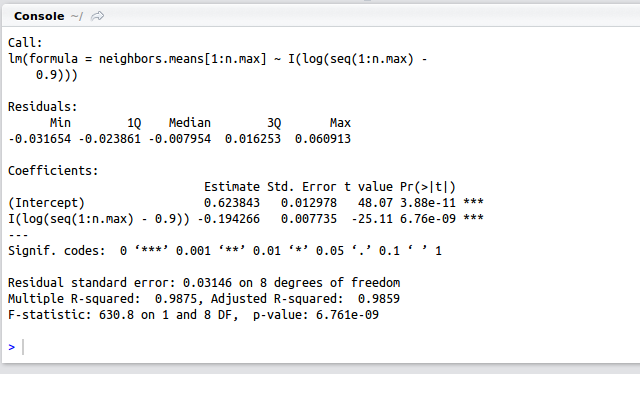
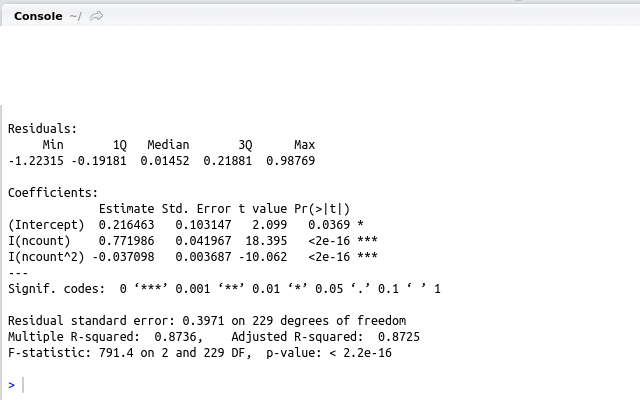
new model, new comments

diff --git a/preface.tex b/preface.tex
@@ -6,30 +6,30 @@ Although the Moore's law\footnote{https://en.wikipedia.org/wiki/Moore's\_law} st
 
 It's natural to ask, how we can speed up such computations. Obvious possibility is to get better hardware, however this is limited by technical progress and can be quite expensive. Widely used approach is to parallelize the computation, that is different parts of the job are run concurrently (in parallel) which results in reduction of the processing time. Generally tasks can be parallelized on different levels. We will talk about parallelism on the level of whole computers, i.e. each computing node is represented by a standalone machine. These nodes are independent and their physical distance can be arbitrary long. The only condition which has to be fulfilled is that the nodes are connected together by the network so they can communicate and exchange data. This approach can be used with big tasks only, because the network communication is relatively very slow and for many tasks it would be a bottleneck. There are also different ways how the general term parallelism can be understood. We will consider so called data parallelism. That is, each computing node runs the same process, only the data differs. This is the main difference from the task parallelism concept in which different nodes can run completely different tasks.
 
-Obviously, not all tasks can be parallelized easily or even are not possible to parallelize at all. On the other hand, there exists also jobs that can be split into smaller parts, each of which can be processed independently and the results then joined together in the end. Concurrent processing of such jobs is quite straightforward and allows use of the data parallelism. These jobs are suitable for our framework.
+Obviously, not all tasks can be parallelized easily or even are not possible to parallelize at all. On the other hand, there exists also jobs that can be split into smaller parts, each of which can be processed independently and the results then can be joined together in the end. Concurrent processing of such jobs is quite straightforward and allows to use of the data parallelism. These jobs are suitable for our framework.
 
 \subsection*{Goal of the thesis} % (fold)
 The main goal is to implement robust framework which is able to split given job, distribute work among participating nodes, which process the assigned parts in parallel, and eventually collect the results and join them together. The domain of suitable jobs is restricted to ones that are described in the preceding paragraph.
 
-The concept of parallelization has been known for many years and many different approaches have been implemented. Some of them are discussed in \hyperref[existing-solutions]{chapter 1}. Nevertheless, the great majority of them uses some kind of hierarchy or at least some control node exists which has different functionality than the others. Main motivation of our work was to provide solution, in which all the nodes are equivalent, each can initiate the process or serve as a computing node. Even in our framework there exists always one node which controls the process while the other ones do the work. But the point is, that every single node can become the initiator (master) or serve as a slave or even both at the same time. Our framework was implemented with the application to the video encoding in mind. However its essence is generic, so it could be easily modified to be used with an arbitrary job which fulfills the above mentioned conditions.
+The concept of parallelization has been known for many years and many different approaches have been implemented. Some of them are discussed in \hyperref[existing-solutions]{chapter 1}. Nevertheless, the great majority of them uses some kind of hierarchy or at least some control node exists which has different functionality than the others. Main motivation of our work was to provide solution, in which all the nodes are equivalent, each can initiate the process or serve as a computing node. Even in our framework there exists always one node which controls the process while the other ones do the work. But the point is, that every single node can become the initiator (master) or serve as a slave or even both at the same time. Our framework was implemented with the application for the video encoding in mind. However its essence is generic, so it could be easily modified to be used with an arbitrary job which fulfills the above mentioned conditions.
 
 The purpose is to implement framework which conforms to the peer to peer paradigm as much as possible. We also want to keep the logic in the node which have demands to be processed in order to ensure better control and more deterministic behavior. Another important goal is to minimize occurrences of errors in the system and good ability to recover from them. The system is also intended to use personal computers as computing nodes, so the program typically runs alongside other applications.
 
 
 % section goal_of_the_thesis (end)
 \subsection*{Application to the video encoding}
-Video files are more or less sequences of images, so called frames. When the file is being played, the images are showed one after the other. They change many times per second so it makes the illusion of smooth video. There are different ways to code the video into the digital form so the need arises to convert the files from one format to other. The program which codes the analog video data to digital or decodes it the other way around is called codec. Some of the well known codecs are for example \textit{H.264}\footnote{https://en.wikipedia.org/wiki/H.264/MPEG-4\_AVC} or \textit{MPEG-2}\footnote{https://en.wikipedia.org/wiki/MPEG-2}. In order to convert the file, each frame has to be re-encoded, which takes quite a big amount of time. This makes the video files ideal for use of our framework.
+Video files are more or less sequences of images, so called frames. When the file is being played, the images are showed one by one. They change many times per second so it makes the illusion of smooth video. There are different ways to code the video into the digital form so the need arises to convert the files from one format to another. The program which codes the analog video data to digital or decodes it the other way around is called codec. Some of the well known codecs are for example \textit{H.264}\footnote{https://en.wikipedia.org/wiki/H.264/MPEG-4\_AVC} or \textit{MPEG-2}\footnote{https://en.wikipedia.org/wiki/MPEG-2}. In order to convert the file, each frame has to be re-encoded, which takes quite a large amount of time. This makes the video files ideal for use of our framework.
 
-Before we use it, some more details have to be revealed. Because we usually want to not only watch the video but also listen to some sound, the videos are usually accompanied by one or more audio files and they are packed together in some container. When we want to convert the video, the container has to be opened, the video extracted, processed and stored again. The audio files are not in our concern and we will simply copy them. Common container formats are \textit{avi}\footnote{https://en.wikipedia.org/wiki/Audio\_Video\_Interleave} or \textit{mkv}\footnote{https://en.wikipedia.org/wiki/Matroska}.
+Before we use it, some more details have to be revealed. Because we usually want not only to watch the video but also listen to some sound, the videos are usually accompanied by one or more audio files and they are packed together in some container. When we want to convert the video, the container has to be opened, the video extracted, processed and stored again. The audio files are not in our concern and we will simply copy them. Common container formats are \textit{avi}\footnote{https://en.wikipedia.org/wiki/Audio\_Video\_Interleave} or \textit{mkv}\footnote{https://en.wikipedia.org/wiki/Matroska}.
 
-There is another important thing. In order to reduce file size and decrease the requirements of rendering the video, the file actually contains only few frames which carry the whole information. These are usually referred to as the key frames. The rest contains only information how the image differs from the previous one. This approach greatly reduces the file size while preserves good ability to recover from errors, e.g. when some part of the file is damaged. Consequence of this fact is, that we cannot split the video file wherever we want, because if the chunk started with some non-key frame, the conversion would not be done properly.
+There is another important thing. In order to reduce file size and decrease the requirements of rendering the video, the file actually contains only few frames which carry the whole information. These are usually referred to as the key frames. The rest of them contains only information how the image differs from the previous one. This approach greatly reduces the file size while preserves good ability to recover from errors, e.g. when some part of the file is damaged. Consequence of this fact is, that we cannot split the video file wherever we want, because if the chunk started with some non-key frame, the conversion would not be done properly.
 
-The problematic of video encoding is quite complex and used algorithms are very sophisticated and advanced, so we did not reinvent the wheel and used third party software for the video encoding, namely the ffmpeg and ffprobe from the FFmpeg\footnote{https://www.ffmpeg.org/} project. For the sake of simplicity, the program outputs always video files packed in the Matroska container. The choice of the codec is arbitrary, however it is restricted by the list of options. All of this software is free and published under the GNU General Public License\footnote{https://en.wikipedia.org/wiki/GNU\_General\_Public\_License} or GNU Lesser General Public License\footnote{https://en.wikipedia.org/wiki/GNU\_Lesser\_General\_Public\_License} in case of FFmpeg.
+Issues connected with video encoding are quite complex and used algorithms are very sophisticated and advanced, so we did not reinvent the wheel and used third party software for the video encoding, namely the ffmpeg and ffprobe from the FFmpeg\footnote{https://www.ffmpeg.org/} project. For the sake of simplicity, the program outputs always video files packed in the Matroska container. The choice of the codec is arbitrary, however it is restricted by the list of options. All of this software is free and published under the GNU General Public License\footnote{https://en.wikipedia.org/wiki/GNU\_General\_Public\_License} or GNU Lesser General Public License\footnote{https://en.wikipedia.org/wiki/GNU\_Lesser\_General\_Public\_License} in case of FFmpeg.
 
 \subsection*{Terminology}
 To prevent misunderstandings there is a short list of frequently used terms:
 \begin{itemize}
-\item \textit{master}(or \textit{initiating node, initiator}) is a node which has work to do, i.e. file to encode. It initiates and controls the process.
+\item \textit{master}(or \textit{initiating node, initiator}) is a node which has job to be done, i.e. has file to be encoded. It initiates and controls the process.
 \item \textit{task}(\textit{job}) refers to work that should be done, specified by the initiator.
 \item \textit{chunk} denotes one part of the split file, which is supposed to be encoded independently.
 \item \textit{(computing) node} is one particular entity which communicates with the master and encodes chunks for it. Theoretically, there can be more such entities on one physical computer, because each node is determined by its communicating port and address.

diff --git a/epilog.tex b/epilog.tex
@@ -2,7 +2,7 @@
 \addcontentsline{toc}{chapter}{Conclusion}
 Based on the experiments it can be said, that the framework works fine and it can be successfully used to speed up computation in the local network. Although the achieved speed up does not grow linearly with the increasing number of nodes, it can be quite significant. It was not tested in WAN environments, however, according to the results, the transfers of the data takes indispensable portion of the whole processing time, so the improvement depends on the network throughput. 
 
-As is being discussed in \hyperref[Problems-alternatives-and-possible-improvements]{chapter 4}, the framework could be further improved. To achieve more effective distribution of the work, more sophisticated scheduling could be employed. Also it was shown, that some redundancy for prevention of re-computing whole node could be useful. Because of the speed of the network the data transfers generally seems to be a bottleneck, so good scheduling algorithm appears to be very important, together with optimal choice of the chunk size. This leads us to a conclusion, that in reliable network environments is probably better idea to centralize logic to special node in order to achieve better performance and accept potential malfunctions caused by the control node failure.
+As is being discussed in \hyperref[Problems-alternatives-and-possible-improvements]{chapter 4}, the framework could be further improved. To achieve more effective distribution of the work, more sophisticated scheduling could be employed that would take into account network topology or each node's performance and possibly create chunks of different sizes etc. It would require some better network knowledge. Also it was shown, that some redundancy for prevention of re-computing all chunks from one particular node could be useful. However, this would cause worse performance and also the advantages are quite unsure. Because of the speed of the network the data transfers generally seems to be a bottleneck, so good scheduling algorithm appears to be very important, together with optimal choice of the chunk size. This leads us to a conclusion, that in reliable network environments is probably better idea to centralize logic to special node in order to achieve better performance and accept potential malfunctions caused by the control node failure. This control node would schedule the process for each client that would ask. Another advantage of this approach is the fact, that this node could use a knowledge of the current network state, that is, which nodes are employed and how,
 
 \chapter*{Appendix A - Installation and use}
 \section{Download} 

diff --git a/chapters/03_chapter.md b/chapters/03_chapter.md
@@ -1,5 +1,5 @@
 # Experiments
-The purpose of the application is to speed up the computation process, thus it should be verified, whether the improvement makes sense or do not. The improvement should correspond to the number of nodes involved in the computation. What we wish is, that the dependence is of some linear form, that is, the computation gets faster with every additional node and it improves by the same steps. In this hypothetical ideal case two nodes means two times faster computation and one hundred nodes means one hundred times faster achievement of the result. However, this is impossible for several reasons. At first, we must consider time that is taken by the division process. More time is needed for transfers and final join operation. Another problem raises because of the fact that the transfers are quite demanding themselves so when more transfers are ongoing at a particular moment, the initiator is more utilized and the process could be slowed down due to this fact. This also implies that the improvement does not raise constantly when adding more nodes. Finally, we must consider that in the real situation delays can appear due to technical reasons, network congestion or node failures.
+The purpose of the application is to speed up the computation process, thus it should be verified, whether the improvement makes sense or do not. The improvement should correspond to the number of nodes involved in the computation. What we wish is, that the dependence is of some linear form, that is, the computation gets faster with every additional node and it improves by the same steps. In this hypothetical ideal case two nodes means two times faster computation and one hundred nodes means one hundred times faster achievement of the result. However, this is impossible for several reasons. At first, we must consider time that is taken by the division process. More time is needed for transfers and final join operation. Another problem raises because of the fact that the transfers are quite demanding themselves so when more transfers are ongoing at a particular moment, the initiator is more utilized and the process could be slowed down due to this fact. This also implies that the improvement does not raise linearly when adding more nodes. Finally, we must consider that in the real situation delays can appear due to technical reasons, network congestion or node failures.
 
 ## Approach to testing
 If we want to obtain reasonable data, the measurements must be repeated several times to prevent deviations. Also we want to keep the measurements independent so its statistical processing is easier. Our approach to running the tests and gathering results is described in this chapter. Our main goal is to measure the improvement, but we would also like to measure the impact the particular setting has on the result.
@@ -34,47 +34,38 @@ The test data were collected by running the test ten times for the given count o
 The desired values have been gathered in two ways. Some of them, for example average transfer and encoding times, are measured directly in the program and then outputted in special file. The script just reads it from this file. The rest of the values is obtained in the script.
 
 ## Results
-### Linear Model
-Measurings showed, that the dependence between the number of involved nodes and the improvement is approximately logarithmic. Work with the data and the model was performed in the R Studio program. To evaluate the data, simple linear regression model was used. Specifically, subsequent formula was used:
-\begin{center}
-$\frac{distributed\_time}{single\_node\_time} = \beta_0 + \beta_1 \times log(neighbor\_count - 0.9)$
-\end{center}
-The absolute value has been added since the model fits better this way - in the case when one neighbor is used, the distributed computation is actually slower. The analysis of the model showed, that it makes sense to use this model. The assumptions such as homoscedasticity (constant variance) and independence of errors were verified using plots and results given by the R Studio\footnote{https://www.rstudio.com/}.
-Some of the mentioned outputs are given in the figures 3.1 and 3.2. We can see, that according to the p-values corresponding to coefficients, both of them are significant for the model. Residual standard error shows, that the variance is not too big. In the plots we can see that residuals has approximately constant variance. However, the second plot suggests, that they may not be distributed normally.
-\begin{figure}[h]
-\begin{center}
-\includegraphics[scale=0.65]{./img/model.png}
-\caption{Summary of the model}
-\end{center}
-\end{figure}
-\begin{figure}[h]
-\begin{center}
-\includegraphics[scale=0.85]{./img/modelplot.pdf}
-\caption{Graphical representation of the model data}
-\end{center}
-\end{figure}
 
- In the figures 3.3 - 3.5 are showed the achieved results. The blue dashed line represents the estimate which is based on the model. The obtained data are visualized as black crosses, red squares show respective mean values.
+### Interpreting the results
+ In the Figure 3.1 are showed the achieved results, interpreted with respect to time needed by the single node. The x-axis shows count of nodes, the y-axis the portion of time needed by the distributed process. The blue dashed line represents the estimate which is based on the model which used hyperbolic function to predict the data. The obtained data are visualized as black crosses, red squares show respective mean values.
 \begin{figure}[h]
 \begin{center}
-\includegraphics[scale=0.90]{./img/Rplot.pdf}
+\includegraphics[scale=0.90]{./img/improve_root.png}
 \caption{Achieved improvement - all measurements}
 \end{center}
 \end{figure}
+The figures 3.2 - 3.4 shows the achieved speedup. The y-axis shows the obtained speedup. The used model is further described in the next section. The data are represented by gray crosses, the estimation is visualized by the blue dashed line. The red line shows the linear function, which would be the ideal case. This linear function is of the form \\
+$y = q*x$
+where coefficient \textit{q} represents the influence of the time consumed by the data transfers. The Figure 3.4 shows, that for this chunk size the time spent with the distribution causes latencies when more nodes are employed. Each node waits for the chunk for too long since too many transfers are processed in parallel.
 \begin{figure}[h]
 \begin{center}
-\includegraphics[scale=0.90]{./img/Rplot10k.pdf}
-\caption{Achieved improvement - 10 MB chunks}
+\includegraphics[scale=0.90]{./img/Rplot_all.png}
+\caption{Achieved speedup - all measurements}
 \end{center}
 \end{figure}
 \begin{figure}[h]
 \begin{center}
-\includegraphics[scale=0.90]{./img/Rplot.pdf}
-\caption{Achieved improvement - 40 MB chunks}
+\includegraphics[scale=0.90]{./img/Rplot10k.png}
+\caption{Achieved speedup - 10 MB chunks}
+\end{center}
+\end{figure}
+\begin{figure}[h]
+\begin{center}
+\includegraphics[scale=0.90]{./img/Rplot40k.png}
+\caption{Achieved speedup - 40 MB chunks}
 \end{center}
 \end{figure}
 
-In the figures 3.6, 3.7 and 3.8 are displayed ratios between particular chunk operations. The first two shows average values per one chunk (so the join and split times are just for an illustration), sorted in ascending order by the chunk size, the latter shows the summations. We can see that portion of time spent with network transfers is relatively small in our case. These diagrams were generated using the LibreOffice package\footnote{http://www.libreoffice.org/}
+In the figures 3.5, 3.6 and 3.7 are displayed ratios between particular chunk operations. The first two shows average values per one chunk (so the join and split times are just for an illustration), sorted in ascending order by the chunk size, the latter shows the summations, i.e. overall times spent with the particular operations. We can see that portion of time spent with network transfers is relatively small in our case. These diagrams were generated using the LibreOffice package\footnote{http://www.libreoffice.org/}
 \begin{figure}[h]
 \begin{center}
 \includegraphics[scale=0.90]{./img/chunks1.png}
@@ -84,7 +75,7 @@ In the figures 3.6, 3.7 and 3.8 are displayed ratios between particular chunk op
 \begin{figure}[h]
 \begin{center}
 \includegraphics[scale=0.90]{./img/chunks1_2.png}
-\caption{Comparison of operations}
+\caption{Comparison of operations - joining and splitting omitted}
 \end{center}
 \end{figure}
 \begin{figure}[h]
@@ -93,10 +84,36 @@ In the figures 3.6, 3.7 and 3.8 are displayed ratios between particular chunk op
 \caption{Comparison of operations - times summed}
 \end{center}
 \end{figure}
-Figure 3.9. shows results of the experiment, in which one of the nodes was killed during the process and then spawned again. As a result, several chunks were send more times, depending on the conditions in the network. The plot shows average number of chunk send and achieved improvement. We can see, that resending of chunks has great impact on the result. It introduces a thought, that sending each chunk two times preventively could be desirable in the environments with high probability of faults. Also, this problem could be reduced by using smaller chunks.
+Figure 3.8 shows results of the experiment, in which one of the nodes was killed during the process and then spawned again. As a result, several chunks were sent more times, depending on the conditions in the network. The plot shows average number of chunk sent and achieved improvement. In this experiment, 40 MB chunks were used, displayed in the left side. Also, some of the experiments were intentionally run with no failure, so we can see in the left down corner results achieved with normal run so we can compare it. Those values are highlighted. We can see, that resending of chunks has great impact on the result. This problem could be reduced by using smaller chunks. When we used 5 MB chunks, the results improved significantly as shown in the right side of the Figure.
 \begin{figure}[h]
 \begin{center}
-\includegraphics[scale=0.90]{./img/failures.pdf}
-\caption{Impact of resending to the result}
+\includegraphics[scale=0.90]{./img/failures_both.png}
+\caption{Impact of resending on the result}
 \end{center}
 \end{figure}
+
+### Linear Model
+Work with the data and the model was performed in the R Studio program. To evaluate the data, simple linear regression model was used. Specifically, subsequent formula was used:
+\begin{center}
+$\frac{single\_node\_time}{distributed\_time} = \beta_0 + \beta_1 \times neighbor\_count + \beta_2 \times neighbor\_count^2 + \epsilon_i$
+\end{center}
+Higher powers were not used in order to not over fit the model. The analysis of the model showed, that it makes sense to use this model. The assumptions such as homoscedasticity (constant variance) and independence of errors were explored using plots and results given by the R Studio\footnote{https://www.rstudio.com/}.
+Some of the mentioned outputs are given in the figures 3.9 and 3.10. We can see, that according to the p-values corresponding to coefficients, all of them are significant for the model. Residual standard error shows, that the variance is not too big. In the plots we can see that the residuals unfortunately has not constant variance. The second plot also suggests, that they probably are not distributed normally. However, citation from [@ECON] says: "heteroscedasticity has never been a reason to throw out an otherwise good model." So we used this model in our modeling. It may be questionable, whether we had enough measurings, however, the model seems to be good enough to describe the data and predict the behavior for more nodes.
+\begin{figure}[h]
+\begin{center}
+\includegraphics[scale=0.65]{./img/model.png}
+\caption{Summary of the model}
+\end{center}
+\end{figure}
+\begin{figure}[h]
+\begin{center}
+\includegraphics[scale=0.85]{./img/model_plots.png}
+\caption{Graphical representation of the model data}
+\end{center}
+\end{figure}
+
+### Upper Bounds
+Overall time of the process can be divided into operations split, send, encode, receive and join (in this order). It is also influenced by searching appropriate neighbors, but it will not be taken into account in this analysis. Also, based on the data we can observe, that the time taken by the split operation is not very significant, therefore we can omit it. If we ask how big speedup can be achieved, we can use the Amdahl's law\footnote{https://en.wikipedia.org/wiki/Amdahl's_law} to model the situation. The join operation can not be parallelized. The encoding itself is parallelized completely. The data transfer operations are performed theoretically in parallel, however, in practice we are limited by the network throughput and the system resources of the initiator, i.e. how many data transfers it can handle in parallel. This can be influenced by the OS, disk speed or even operation memory. Because this number is limited, the initiator can not employ arbitrary number of nodes effectively. If we want to deal with this problem, we have to consider several facts. The speed of the distribution is influenced by the ability of the nodes to receive the data with no delay, so we assume that buffering and disk operations do not slow down the process. Also, the full network capacity cannot be used because of other ongoing transfers. Also some portion of the capacity is consumed by the redundant information used by the TCP/IP protocol. For the sake of simplicity, we will make the assumption, that the capacity corresponds to the actual amount of useful data transfered. We also must not forgot, that the sizes of original and received chunks differs. Finally, we treat the parallel transfer over the network as it took the same time as the serial, which does not have to be always true. We will consider the size of received chunks to be $k$ times bigger than the size of the send ones and count with this size. Let $c$ be the amount of data that can be transfered over the network per one second, $s$ chunk size and $t$ time needed to encode one chunk (again, we assume the encoding times are the same for all the nodes). Then maximum number $n$ of effectively employed nodes must fulfill the inequality: $n * s * c \leq t$ since otherwise the transfer would take more time than the encoding, so the encoded chunks would have to wait.
+To applicate the Amdahl's law, we must determine the fraction of the algorithm that is strictly serial. This involves the splitting and joining. We consider the data transfers to be parallelized with the preceding paragraph in mind. According to the results, the split and join operations take approximately 10\% of time. So according to the basic form of the law, the theoretical maximum speedup should be obtained from the following formula:\\
+$S=lim \frac{1}{B + \frac{1}{n}(1 - B)} = \frac{1}{B} = \frac{1}{0.1} = 10$ \\
+Where $B$ represents the serial fraction. This result is strictly theoretical and does not correspond to real situation, mainly because of the problems mentioned above.

diff --git a/chapters/02_chapter.md b/chapters/02_chapter.md
@@ -79,7 +79,7 @@ As it is described in the corresponding \hyperref[distribution-of-chunks]{sectio
 All the file operations are customized for use on the UNIX operating system. Nevertheless, there is possibility to implement respective functions to work on different operating systems easily. 
 
 \subsection*{File operations}
-Each chunk is stored in a separate file. For this reason several functions were implemented to allow easier work with the file system. These include functions for manipulation with the filenames, controlling files and working with directories. Also there is a generic function which spawns an external process. This function uses process forking, spawns the desired process and returns contents of its standard output and error streams. The function also accepts time after which it kills the process. The result of the process' run propagates in the function's return value so the caller can react accordingly. /this mechanism is used when working with video, namely splitting, encoding and joining it.
+Each chunk is stored in a separate file. For this reason several functions were implemented to allow easier work with the file system. These include functions for manipulation with the filenames, controlling files and working with directories. Also there is a generic function which spawns an external process. This function uses process forking, spawns the desired process and returns contents of its standard output and error streams. The function also accepts time after which it kills the process. The result of the process' run propagates in the function's return value so the caller can react accordingly. This mechanism is used when working with video, namely splitting, encoding and joining it.
 
 \subsection*{Working with the video}
 The video processing is secured by the \textit{TaskHandler class}. When it is loaded, some useful properties are obtained thanks to the \textit{ffprobe} program. To allow easy processing, the output is in the JSON\footnote{https://en.wikipedia.org/wiki/JSON} format which is then parsed with the help of the \textit{rapidjson}\footnote{https://github.com/miloyip/rapidjson} library. This library consists of header files only and is distributed as a part of the source code. It is available under the MIT license which makes it suitable for usage. These values can then be showed using the F6 key. More importantly, it is used to compute the number of chunks that will be created. Note, that the number of chunks can change slightly during the splitting process. It is caused by the fact, that the teoretically computed count does not consider the positions of key frames. So the chunks can actually have different sizes and thus their count differs. This fact also implies, that each chunks has got slightly different size. When the process starts, the instance of \textit{ffmpeg} process is spawned which splits the file. The resulting files are then stored in the special subdirectory of the working directory. For easy identification, each process is assigned a unique code determined by the time stamp. The chunks are then numbered in increasing order. The names are then stored in the referencing structures that are created at this point. Then the chunks are distributed as described in the \hyperref[distribution-of-chunks]{section} about distributing. Each processing neighbor encodes the chunks using the \textit{ffmpeg} and then sends it back. The information about the chunk, such as the level of the encoding quality are stored in the referencing structure. Once the chunks are collected, first a list of the files to join is created and then the \textit{ffmpeg} is used once more to join all the chunks to the output file. The process can be aborted at any time. This action stops the distribution, cleans the storages and notifies neighbors which are processing some chunks so they can trash it.
@@ -100,10 +100,11 @@ Another area which have to deal with some race conditions is output which is dis
 During the process, various types of errors can occur. Errors connected with the networking are discussed in the respective \hyperref[handling-errors]{section}. Here we will describe other errors that could possibly happen.
 
 \subsection*{Neighbor failure}
-If an unexpected failure of some node occurs, the other nodes which has it in their lists must react. If the communication is interrupted in the middle, there is no way how the other node can recognize the failure, so the command execution just fails. However this usually leads to repetition of the command which registers the failure. Generally the failure is noted when the try to establish a connection with the given neighbor fails. This can occur when processing a command, checking a neighbor or when the timer assigned with some chunk reaches zero. In every of these situations the same function is used, so the situation is  always treated in the same way. The unresponsive neighbor is removed from the list. If it has some chunks assigned, i.e. they has been sent to it already, they are queued for send to another neighbor. If it has chunks being processed by the current node, those chunks are trashed, because there will not be any us for them.
+If an unexpected failure of some node occurs, the other nodes which has it in their lists must react. If the communication is interrupted in the middle, there is no way how the other node can recognize the failure, so the command execution just fails. However this usually leads to repetition of the command which registers the failure. Generally the failure is noted when the try to establish a connection with the given neighbor fails. This can occur when processing a command, checking a neighbor or when the timer assigned with some chunk reaches zero. In every of these situations the same function is used, so the situation is  always treated in the same way. The unresponsive neighbor is removed from the list. If it has some chunks assigned, i.e. they has been sent to it already, they are queued for send to another neighbor. If it has sent some chunks to be processed by the current node, those chunks are trashed, because there will not be any use for them, since there is no neighbor to which they should be returned.
 
 \subsection*{Chunk disappearance}
-After the chunk is send to be processed, it is pushed into special queue where it is checked periodically. If the time is up, the respective neighbor is checked. If it is responding, the timeout is set once again. If it does not respond, or the timer reaches zero for the second time, the chunk is queued for send. Also, in case of the neighbor failure, the neighbor is removed. This can lead to a situation, when one chunk is being processed by two different neighbors at the same time. However, after it returns for the first time, it is put into the dedicated storage, so if it returns afterwards, it is simply rejected. But situation should not occur, since when the chunk returns, all assigned neighbors are notified. This approach could be improved by introducing new action which would cancel the chunk's encoding process at the remote node. It was not implemented though, because it is not clear on which node the process should be canceled. Connected with this problem is the situation, when one node receives by accident one chunk more times. The files are checked and what is more, the transfer uses temporary files so the worst scenario involves wasteful encoding of the chunk for the second time. Another issue which has to be solved is how to set the timeout. When the neighbor is involved for the first time, we have no information about its performance, so the timeout is set respectively to the size of the chunk, default multiplication factor is used. When the neighbor has already quality factor assigned, it is used to compute the timeout. So the quality coefficient can be seen as time needed to encode and transfer some unit of data.
+
+After the chunk is send to be processed, it is pushed into special queue where it is checked periodically. If the time is up, the respective neighbor is checked. If it is responding, the timeout is set once again. If it does not respond, or the timer reaches zero for the second time, the chunk is queued for send. Also, in case of the neighbor failure, the neighbor is removed. This can lead to a situation, when one chunk is being processed by two different neighbors at the same time. However, after it returns for the first time, it is put into the dedicated storage, so if it returns afterwards, it is simply rejected. But situation should not occur, since when the chunk returns, all assigned neighbors are notified, so they can cancel the computation. Connected with this problem is the situation, when one node receives by accident one chunk more times. The files are checked and what is more, the transfer uses temporary files so the worst scenario involves wasteful encoding of the chunk for the second time. For this reason, each node remembers all the chunks it has processed, so this can be avoided. It is important to store only the successfully processed ones, because if the chunk was damaged during the transfer, the initiator could ask for its repeated encoding. Another issue which has to be solved is how to set the timeout. When the neighbor is involved for the first time, we have no information about its performance, so the timeout is set respectively to the size of the chunk, default multiplication factor is used. When the neighbor has already quality factor assigned, it is used to compute the timeout. So the quality coefficient can be seen as time needed to encode and transfer some unit of data.
 
 \subsection*{Other errors}
 Errors can also be encountered during the manipulation with the video. Because all the video related problems are manipulated by the external programs, the mechanism is used, which can control the process. The approximate upper bounds are set for each task that is supposed to be executed and if the process' execution takes too long, the signal is send which terminates it, thus the error code is returned.

diff --git a/chapters/01_chapter.md b/chapters/01_chapter.md
@@ -69,10 +69,10 @@ This may be the most important part of the process. Its overview is given in Fig
 When the initiating node has not enough neighbors and it needs more neighbors with free computation power, it can use another mechanism. This mechanism uses a flood technique to spread the request among the nodes in the network. The request is send to each neighbor, which spreads it further in the same manner. However, the request is equipped with time to live value which is decreased after each hop, so it does not spread forever nor too far. Once some node receives the request and is not busy, it contacts the initiator directly, so it can add him to the list of potential neighbors and then possibly as the regular neighbor.
 
 \subsection*{Withdrawing from the network}
-When the node wants to leave the network it has to abort the process, if it is initiator. Then a special message is sent to each neighbor, which informs them so they can react accordingly. That is, if the neighbor has tasks to process for the leaving one, it removes them from the queue and then removes the neighbor itself. Removed neighbors are completely lost, they are no longer stored in either of the lists. The process of saying goodbye to neighbors is asynchronous, the neighbors do respond with some acknowledgement message, but the leaving node does not wait for it, because it could cause potential deadlock in case that the other node is unable to respond for some reason. It is not needed anyway, since there is no possibility for the remote node to stop the withdrawing process.
+When the node wants to leave the network it has to abort the process, if it is initiator. Then a special message is sent to each neighbor, which informs them so they can react accordingly. That is, if the neighbor has tasks to process for the leaving one, it removes them from the queue and then removes the neighbor itself. Removed neighbors are completely lost, they are no longer stored in either of the lists. The process of saying goodbye to neighbors is asynchronous, the withdrawing node does not wait for any confirmation. There are several reasons for this behavior. Waiting for the response could cause a deadlock under some specific circumstances, e.g. if the contacted neighbor went down unexpectedly. Also, there is no need for it, since there is no possibility to stop the node from withdrawing.
 
 \subsection*{Neighbor's failure}
-There is no guarantee that all the neighbors leave the network properly. The program itself can encounter error or be terminated violently. Another possibility is some unpredictable error of physical character, for example power failure, network problem etc. In those cases it's essential for the other nodes in the network to be informed about this fact. Especially it's very important for the initiator who had some tasks processed by this node. In order to ensure handling of this possibility the neighbor list is checked periodically. If some neighbor does not respond, it is removed fro the list and all the data connected with it are treated accordingly. Namely the chunks assigned to it are resent.
+There is no guarantee that all the neighbors leave the network properly. The program itself can encounter error or be terminated violently. Another possibility is some unpredictable error of physical character, for example power failure, network problem etc. In those cases it's essential for the other nodes in the network to be informed about this fact. Especially it's very important for the initiator who had some tasks processed by this node. In order to ensure handling of this possibility the neighbor list is checked periodically. If some neighbor does not respond, it is removed from the list and all the data connected with it are treated accordingly. Namely the chunks assigned to it are resent.
 
 
 ### Distribution of chunks

diff --git a/chapters/04_chapter.md b/chapters/04_chapter.md
@@ -5,7 +5,6 @@ Another issue was whether use some more sophisticated way of distributing the ch
 
 Interesting alternative would be use of the anycast\footnote{https://en.wikipedia.org/wiki/Anycast} mechanism provided by the IPv6 protocol. The nodes would be addressed with an anycast address and each chunk would be simply sent to this address. Obvious disadvantage of this approach is the loss of the control of the distribution. More sophisticated variant would use special node which would maintain the list of free nodes and schedule the distribution. However this would break the peer to peer paradigm because of the centralization of control to one specific node.
 
-Maybe the biggest unnecessary delay could appear when the whole process waits for some lost chunk. This is partially solved by resending chunks after the timeout. Also some form of redundancy could help. If some node is processing more tasks sequentially while using approximately the same set of neighbors, the framework could also determine optimal chunk size to achieve good ratio of transfer and computing times (the chunk should not be too small because of the delays tied with its distribution) while minimizing the possible delay caused by waiting for re-encoding of some lost chunk.
+Maybe the biggest unnecessary delay could appear when the whole process waits for some lost chunk. This is partially solved by resending chunks after the timeout. Also some form of redundancy could help, which on the other hand would certainly affect the effectiveness. If some node is processing more tasks sequentially while using approximately the same set of neighbors, the framework could also determine optimal chunk size to achieve good ratio of transfer and computing times (the chunk should not be too small because of the delays tied with its distribution) while minimizing the possible delay caused by waiting for re-encoding of some lost chunk. We could see at the end of the \hyperref[interpreting-the-results]{chapter 3}, that use of smaller chunk size leads to better performance, specifically when the failure of some node occurs, the difference is quite significant.
 
 Also the current implementation creates a separate connection for each data transfer. Alternatively, each chunk could be delivered and returned using the same connection which would lessen the demands of the communication. The connection's termination would also indicate problem with the chunk's processing or the neighbor itself. But the connection termination does not necessarily mean the failure of the process. Because it is desirable to avoid needless re-encoding of the chunks, this situation would has to be treated specially which would introduce additional problems. Also this approach does not fit very well to the current design in which each logical action is executed as the sequence of commands and for each sequence there is a special connection.
-
